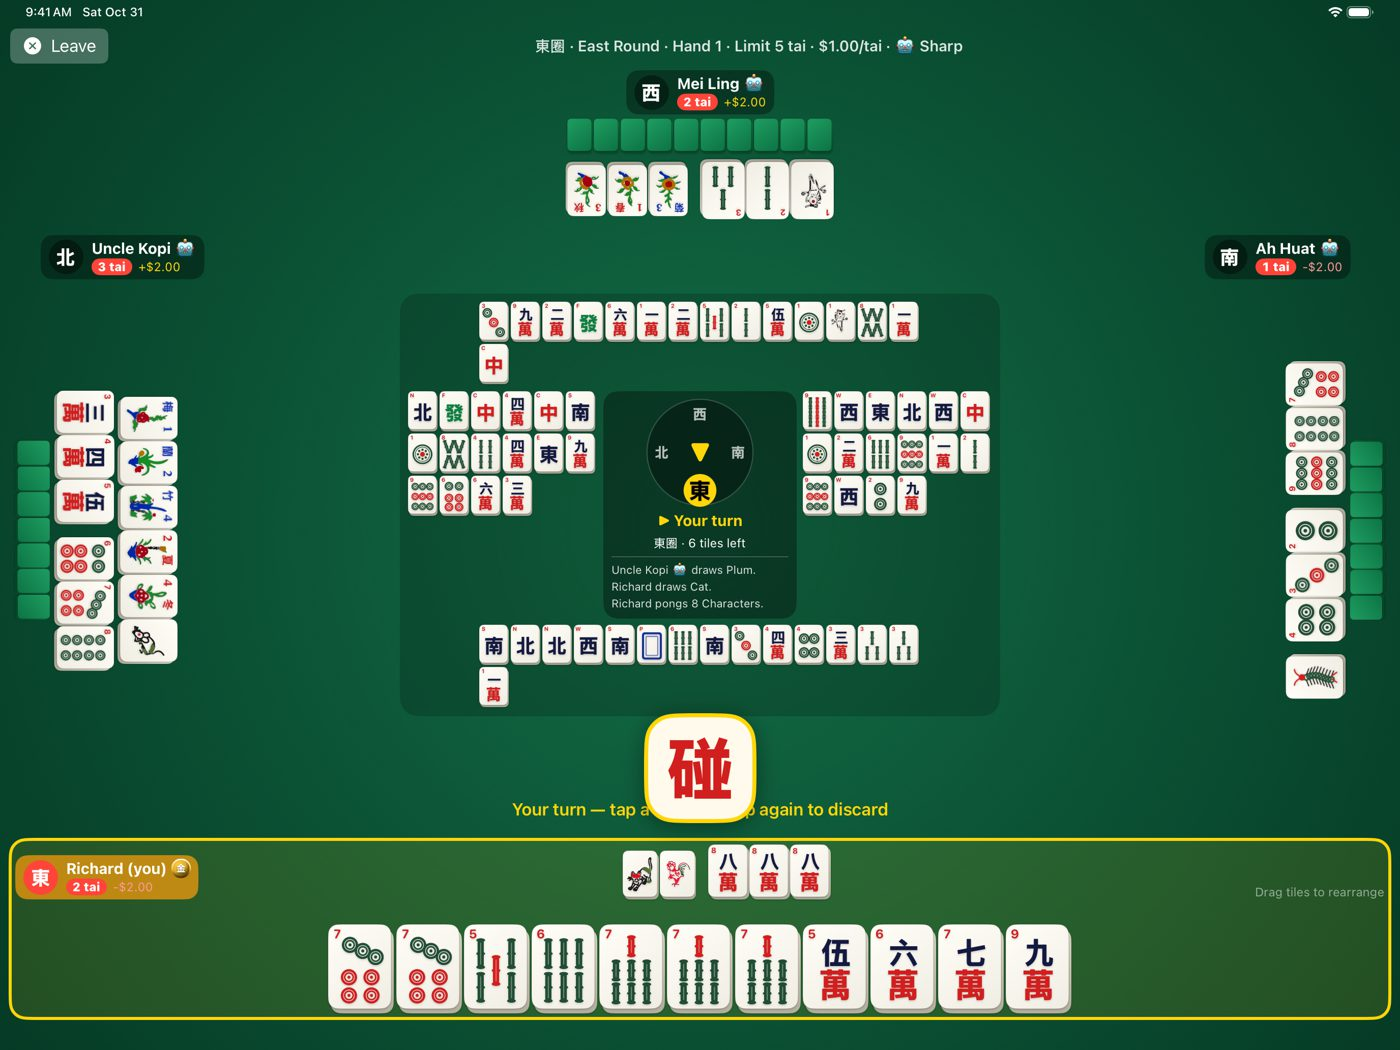
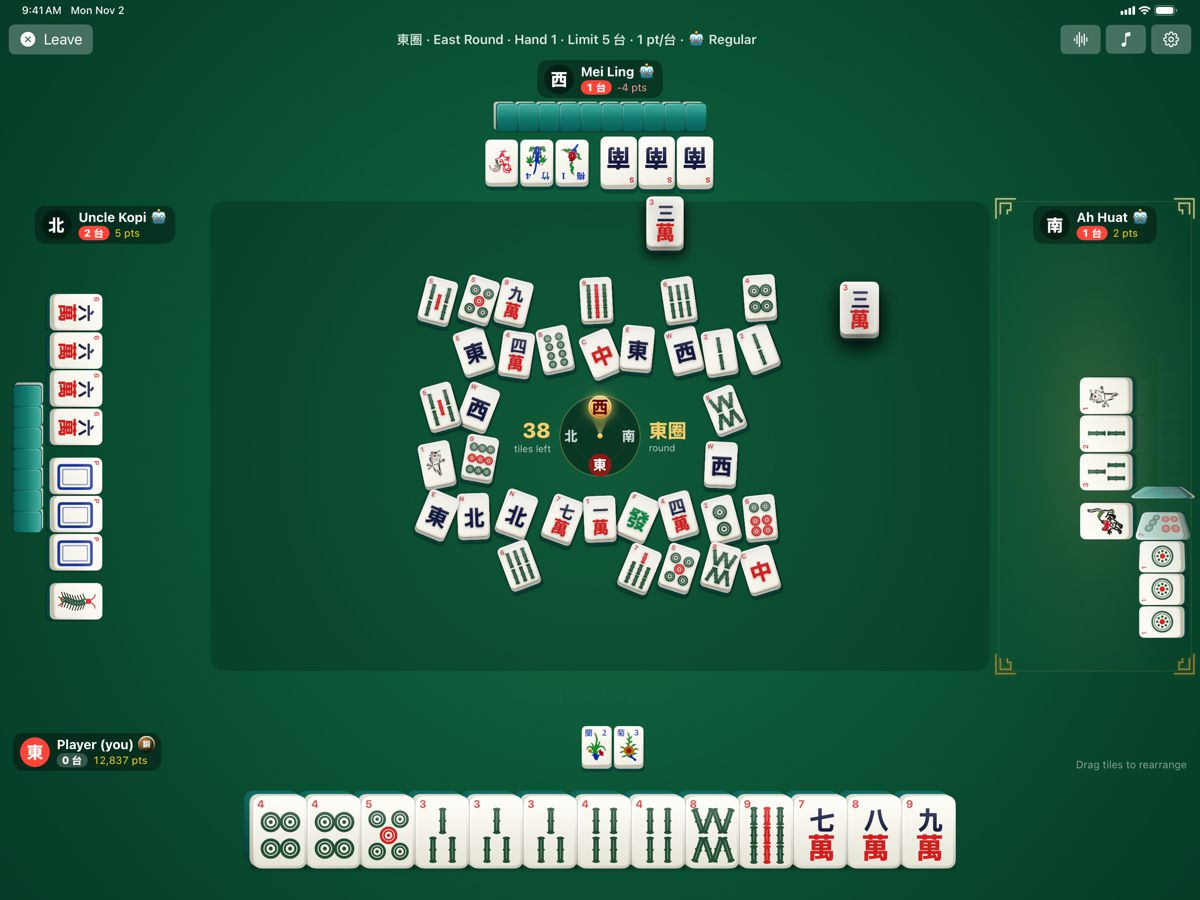
Home page: show new 1.1 screenshots (points, no $)
Replace the hidden old screenshots that showed $ amounts with four iPad
shots from build 19: home, a hand in progress, a win result and Learn from Bots.

diff --git a/index.html b/index.html
@@ -28,12 +28,12 @@
       <span class="badge soon">Coming soon to the App Store</span>
     </section>
 
-    <!-- Screenshots hidden until new ones without $ amounts replace img/table.jpg and img/payout.jpg.
     <section class="shots" id="screenshots">
-      <img src="/img/table.jpg" alt="A Singapore Mahjong table in SG Mahjong, with melds, flowers and a pong call" loading="lazy">
-      <img src="/img/payout.jpg" alt="An instant 咬到 score showing the tiles that earned it" loading="lazy">
+      <img src="/img/home.jpg" alt="The SG Mahjong front page: Single Player, Play with Friends and Learn from Bots, with your rank and career points" loading="lazy">
+      <img src="/img/table.jpg" alt="A Singapore Mahjong hand in progress, with discards in the middle and each player's melds and flowers" loading="lazy">
+      <img src="/img/win.jpg" alt="A win result showing the winning hand, its 台 breakdown and each player's points" loading="lazy">
+      <img src="/img/bots.jpg" alt="Learn from Bots: four computer players on a red table, with the bot's reasoning for its discard" loading="lazy">
     </section>
-    -->
 
     <section class="features">
       <div class="feature">
